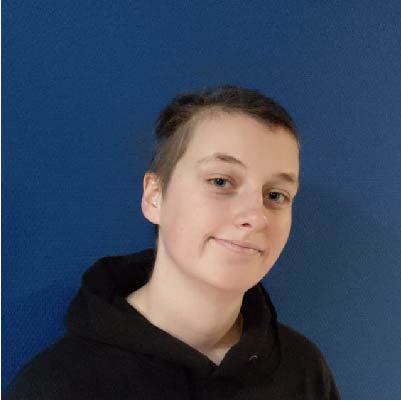
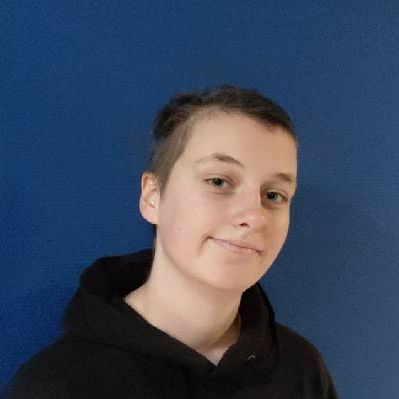
updated natalia and thomas
logo is still a bit of an issue, need to take some more time for that

diff --git a/index.html b/index.html
@@ -91,7 +91,7 @@
     <div class="intro-content">
       <h2>Measuring Child-Robot Relationships</h2>
 	  <h3>Workshop @HRI2021, Virtual</h3>
-	  <h3>8 March 2021</h3>
+	  <!--<h3>8 March 2021</h3>-->
       <div>
         <a href="#cfp" class="btn-get-started scrollto">Submissions</a>
         <!--<a href="#portfolio" class="btn-projects scrollto">Schedule</a>-->
@@ -115,7 +115,7 @@
       <div class="container">
         <div class="row">
           <div class="col-lg-6 cfp-img">
-            <img src="assets/img/cfp-img.jpg" alt="">
+            <img src="assets/img/logo.svg" alt="">
           </div>
 
           <div class="col-lg-6 content">
@@ -396,10 +396,10 @@
                 <h4>Rebecca Stower</h4>
                 <span>Jacobs University, DE</span>
                 <div class="social">
-                  <a href=""><i class="fa fa-twitter"></i></a>
                   <a href=""><i class="fa fa-graduation-cap"></i></a>
                   <a href=""><i class="fa fa-globe"></i></a>
                   <a href=""><i class="fa fa-linkedin"></i></a>
+				  <a href=""><i class="fa fa-twitter"></i></a>
                 </div>
               </div>
             </div>
@@ -412,10 +412,10 @@
                 <h4>Mike Ligthart</h4>
                 <span>VU University, NL</span>
                 <div class="social">
-                  <a href=""><i class="fa fa-twitter"></i></a>
                   <a href=""><i class="fa fa-graduation-cap"></i></a>
                   <a href=""><i class="fa fa-globe"></i></a>
                   <a href=""><i class="fa fa-linkedin"></i></a>
+				  <a href=""><i class="fa fa-twitter"></i></a>
                 </div>
               </div>
             </div>
@@ -428,10 +428,10 @@
                 <h4>Caroline van Straten</h4>
                 <span>University of Amsterdam, NL</span>
                 <div class="social">
-                  <a href=""><i class="fa fa-twitter"></i></a>
                   <a href=""><i class="fa fa-graduation-cap"></i></a>
                   <a href=""><i class="fa fa-globe"></i></a>
                   <a href=""><i class="fa fa-linkedin"></i></a>
+				  <a href=""><i class="fa fa-twitter"></i></a>
 				</div>
               </div>
             </div>
@@ -439,15 +439,14 @@
 		
           <div class="col-lg-3 col-md-6">
             <div class="member">
-              <div class="pic"><img src="assets/img/team-4.jpg" alt=""></div>
+              <div class="pic"><img src="assets/img/natalia.jpg" alt=""></div>
               <div class="details">
                 <h4>Natalia Calvo-Barajas</h4>
                 <span>Uppsala University, SE</span>
                 <div class="social">
-                  <a href=""><i class="fa fa-twitter"></i></a>
-                  <a href=""><i class="fa fa-graduation-cap"></i></a>
-                  <a href=""><i class="fa fa-globe"></i></a>
-                  <a href=""><i class="fa fa-linkedin"></i></a>                </div>
+                  <a href="https://scholar.google.com/citations?user=rfav_NcAAAAJ&hl=en"><i class="fa fa-graduation-cap"></i></a>
+				  <a href="https://twitter.com/natycalvob"><i class="fab fa-twitter"></i></a>
+				</div>
               </div>
             </div>
           </div>
@@ -465,10 +464,11 @@
                 <h4>Ella Velner</h4>
                 <span>University of Twente, NL</span>
                 <div class="social">
-                  <a href="https://twitter.com/ellavelner"><i class="fa fa-twitter"></i></a>
                   <a href="https://scholar.google.nl/citations?user=-t92p0AAAAAJ&hl=nl"><i class="fa fa-graduation-cap"></i></a>
                   <a href="https://ellavelner.nl/"><i class="fa fa-globe"></i></a>
-                  <a href="https://www.linkedin.com/in/ellavelner/"><i class="fa fa-linkedin"></i></a>
+                  <a href="https://www.linkedin.com/in/ellavelner/"><i class="fab fa-linkedin"></i></a>
+				  <a href="https://www.researchgate.net/profile/Ella_Velner2"><i class="fab fa-researchgate"></i></a>
+				  <a href="https://twitter.com/ellavelner"><i class="fab fa-twitter"></i></a>
                 </div>
               </div>
             </div>
@@ -476,15 +476,14 @@
 		  
 		  <div class="col-lg-3 col-md-6">
             <div class="member">
-              <div class="pic"><img src="assets/img/team-4.jpg" alt=""></div>
+              <div class="pic"><img src="assets/img/thomas.jpg" alt=""></div>
               <div class="details">
                 <h4>Thomas Beelen</h4>
                 <span>University of Twente, NL</span>
                 <div class="social">
-                  <a href=""><i class="fa fa-twitter"></i></a>
-                  <a href=""><i class="fa fa-graduation-cap"></i></a>
-                  <a href=""><i class="fa fa-globe"></i></a>
-                  <a href=""><i class="fa fa-linkedin"></i></a>
+                  <a href="https://scholar.google.nl/citations?user=fynybp0AAAAJ&hl=en"><i class="fa fa-graduation-cap"></i></a>
+                  <a href="https://www.thomasbeelen.com/"><i class="fa fa-globe"></i></a>
+                  <a href="https://www.linkedin.com/in/thomas-beelen-67aabbbb/"><i class="fab fa-linkedin"></i></a>
                 </div>
               </div>
             </div>
